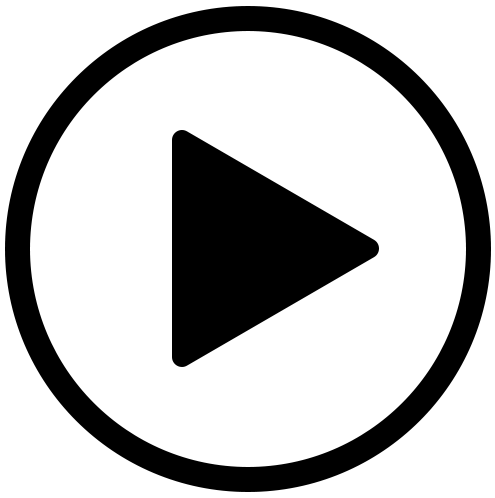
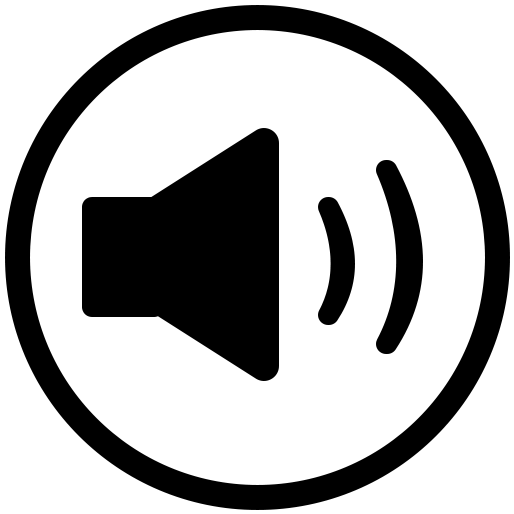
11.7hw

diff --git a/src/js/scripts.js b/src/js/scripts.js
@@ -25,12 +25,16 @@ document.addEventListener("DOMContentLoaded", () => {
                 clearInterval(interval);
                 setTimeout(() => {
                     window.location.href = "introduction.html";
-                }, 500);
+                }, 1000);
                 document.body.classList.add("fade");
             }
         }, intervalTime);
 
+        localStorage.removeItem('musicTime');
+        localStorage.setItem('musicPlaying', 'true');
     }
+
+
     else if (path.includes("introduction.html")) {
         console.log("This is the Homepage.");
         function navigate() {
@@ -38,6 +42,40 @@ document.addEventListener("DOMContentLoaded", () => {
         }
         const ebutton = document.querySelector(".explorebutton");
         ebutton.addEventListener("click", navigate);
+
+        const music = document.getElementById('bgm-intro-home');
+        const musicControlButton = document.getElementById('music-control1');
+        const musicIcon = document.getElementById('music-icon1');
+        const isPlaying = localStorage.getItem('musicPlaying') === 'true';
+        const savedTime = parseFloat(localStorage.getItem('musicTime') || '0');
+
+        if (isPlaying) {
+            music.currentTime = savedTime;
+            music.play();
+            musicIcon.src = 'images/musicstop.png';
+        } else {
+            music.pause();
+            musicIcon.src = 'images/musicplay.png';
+        }
+
+
+        musicControlButton.addEventListener('click', () => {
+            if (music.paused) {
+                music.play();
+                musicIcon.src = 'images/musicstop.png';
+                localStorage.setItem('musicPlaying', 'true');
+            } else {
+                music.pause();
+                musicIcon.src = 'images/musicplay.png';
+                localStorage.setItem('musicPlaying', 'false');
+            }
+        });
+
+        window.addEventListener('beforeunload', () => {
+            localStorage.setItem('musicTime', music.currentTime);
+        });
+
+
     }
     else if (path.includes("homepage.html")) {
         console.log("This is the Homepage.");
@@ -46,6 +84,7 @@ document.addEventListener("DOMContentLoaded", () => {
         const coverright = document.querySelector(".leftcover");
         const coverleft = document.querySelector(".rightcover");
         const comefw = document.querySelector('.mainhomepage');
+        const musicfw = document.querySelector('#music-control2');
 
         function addHoverEffect() {
             coverleft.style.transform = "translateX(20px)";
@@ -77,7 +116,8 @@ document.addEventListener("DOMContentLoaded", () => {
 
             setTimeout(() => {
                 comefw.classList.add('comeforward');
-            }, 1000);
+                musicfw.classList.add('comeforward');
+            }, 1500);
         }
 
         hoverright.addEventListener("mouseenter", addHoverEffect);
@@ -93,6 +133,7 @@ document.addEventListener("DOMContentLoaded", () => {
         const petclick = document.querySelector('.pet');
         const citiclick = document.querySelector('.clickbs');
         const gameclick = document.querySelector('.children');
+        const back = document.getElementById('back1');
 
         scenclick.addEventListener('click', () => {
             window.location.href = "scenery.html";
@@ -106,6 +147,41 @@ document.addEventListener("DOMContentLoaded", () => {
         gameclick.addEventListener('click', () => {
             window.location.href = "game.html";
         })
+        back.addEventListener('click', () => {
+            window.location.href = "introduction.html";
+        })
+
+        const music = document.getElementById('bgm-intro-home');
+        const musicControlButton = document.getElementById('music-control2');
+        const musicIcon = document.getElementById('music-icon2');
+        const isPlaying = localStorage.getItem('musicPlaying') === 'true';
+        const savedTime = parseFloat(localStorage.getItem('musicTime') || '0');
+
+        if (isPlaying) {
+            music.currentTime = savedTime;
+            music.play();
+            musicIcon.src = 'images/musicstop.png';
+        } else {
+            music.pause();
+            musicIcon.src = 'images/musicplay.png';
+        }
+
+
+        musicControlButton.addEventListener('click', () => {
+            if (music.paused) {
+                music.play();
+                musicIcon.src = 'images/musicstop.png';
+                localStorage.setItem('musicPlaying', 'true');
+            } else {
+                music.pause();
+                musicIcon.src = 'images/musicplay.png';
+                localStorage.setItem('musicPlaying', 'false');
+            }
+        });
+
+        window.addEventListener('beforeunload', () => {
+            localStorage.setItem('musicTime', music.currentTime);
+        });
     }
 
 });

diff --git a/src/css/style.css b/src/css/style.css
@@ -100,6 +100,8 @@ to help you out.
 	display: flex;
 	flex-direction: column;
 	align-items: center;
+	padding: 10px;
+	width: 100%;
 }
 
 .intro-title {
@@ -108,12 +110,17 @@ to help you out.
 	margin: 0;
 	text-align: center;
 	letter-spacing: 0.1em;
+	position: absolute;
+	top: 40px;
+	z-index: 10;
 }
 
 .intro-wrapper {
 	position: relative;
 	display: inline-block;
 	text-align: center;
+	position: absolute;
+	top: 100px;
 }
 
 .intro-bg {
@@ -150,14 +157,39 @@ to help you out.
 	border-radius: 20px;
 	cursor: pointer;
 	max-width: 600px;
-	width: 50%;
+	width: 20%;
 	letter-spacing: 0.05em;
+	position: absolute;
+	top: 650px;
 	transition: transform 0.3s ease, font-size 0.3s ease;
 }
 
 .explorebutton:hover {
 	font-size: 28px;
 	color: white;
+}
+
+.music-control1 {
+	position: absolute;
+	top: 2.5%;
+	right: 2.5%;
+	width: 45px;
+	height: 45px;
+	background: none;
+	border: none;
+	padding: 0;
+	cursor: pointer;
+	transition: transform 0.3s ease;
+}
+
+.music-icon1 {
+	width: 100%;
+	height: 100%;
+	object-fit: contain;
+}
+
+.music-icon1:hover {
+	transform: scale(1.1);
 }
 
 .homepage {
@@ -288,4 +320,34 @@ to help you out.
 .petpage,
 .scenerypage p {
 	font-size: 50px;
+}
+
+.music-control2,
+.back1 {
+	position: absolute;
+	top: 2.5%;
+	right: 3.5%;
+	width: 45px;
+	height: 45px;
+	background: none;
+	border: none;
+	padding: 0;
+	cursor: pointer;
+	transition: transform 0.3s ease;
+}
+
+.music-icon2,
+.back-icon1 {
+	width: 100%;
+	height: 100%;
+	object-fit: contain;
+}
+
+.music-icon2:hover,
+.back-icon1:hover {
+	transform: scale(1.1);
+}
+
+.back1 {
+	left: 3.5%;
 }

diff --git a/src/homepage.html b/src/homepage.html
@@ -32,6 +32,12 @@
                 alt="circular part of the big bookshelf with color and book, which is used as a signifier to click"
                 class="clickbs" />
             <img src="images/children.png" alt="two children are playing game happily" class="children" />
+            <button class="music-control2" id="music-control2">
+                <img class="music-icon2" id="music-icon2" src="images/musicplay.png" alt="Play">
+            </button>
+            <button class="back1" id="back1">
+                <img class="back-icon1" id="back-icon1" src="images/back.png" alt="Play">
+            </button>
         </section>
         <audio id="bgm-intro-home" autoplay loop>
             <source src="bgm/intro and home.MP3" type="audio/mpeg">

diff --git a/src/introduction.html b/src/introduction.html
@@ -29,10 +29,13 @@
             </section>
         </div>
         <button class="explorebutton">Explore Its Museum</button>
-        <audio id="bgm-intro-home" autoplay loop>
-            <source src="bgm/intro and home.MP3" type="audio/mpeg">
-        </audio>
+        <button class="music-control1" id="music-control1">
+            <img class="music-icon1" id="music-icon1" src="images/musicplay.png" alt="Play">
+        </button>
     </main>
+    <audio id="bgm-intro-home" autoplay loop>
+        <source src="bgm/intro and home.MP3" type="audio/mpeg">
+    </audio>
     <!--
 		This is where you should link your JS file.
 	-->
